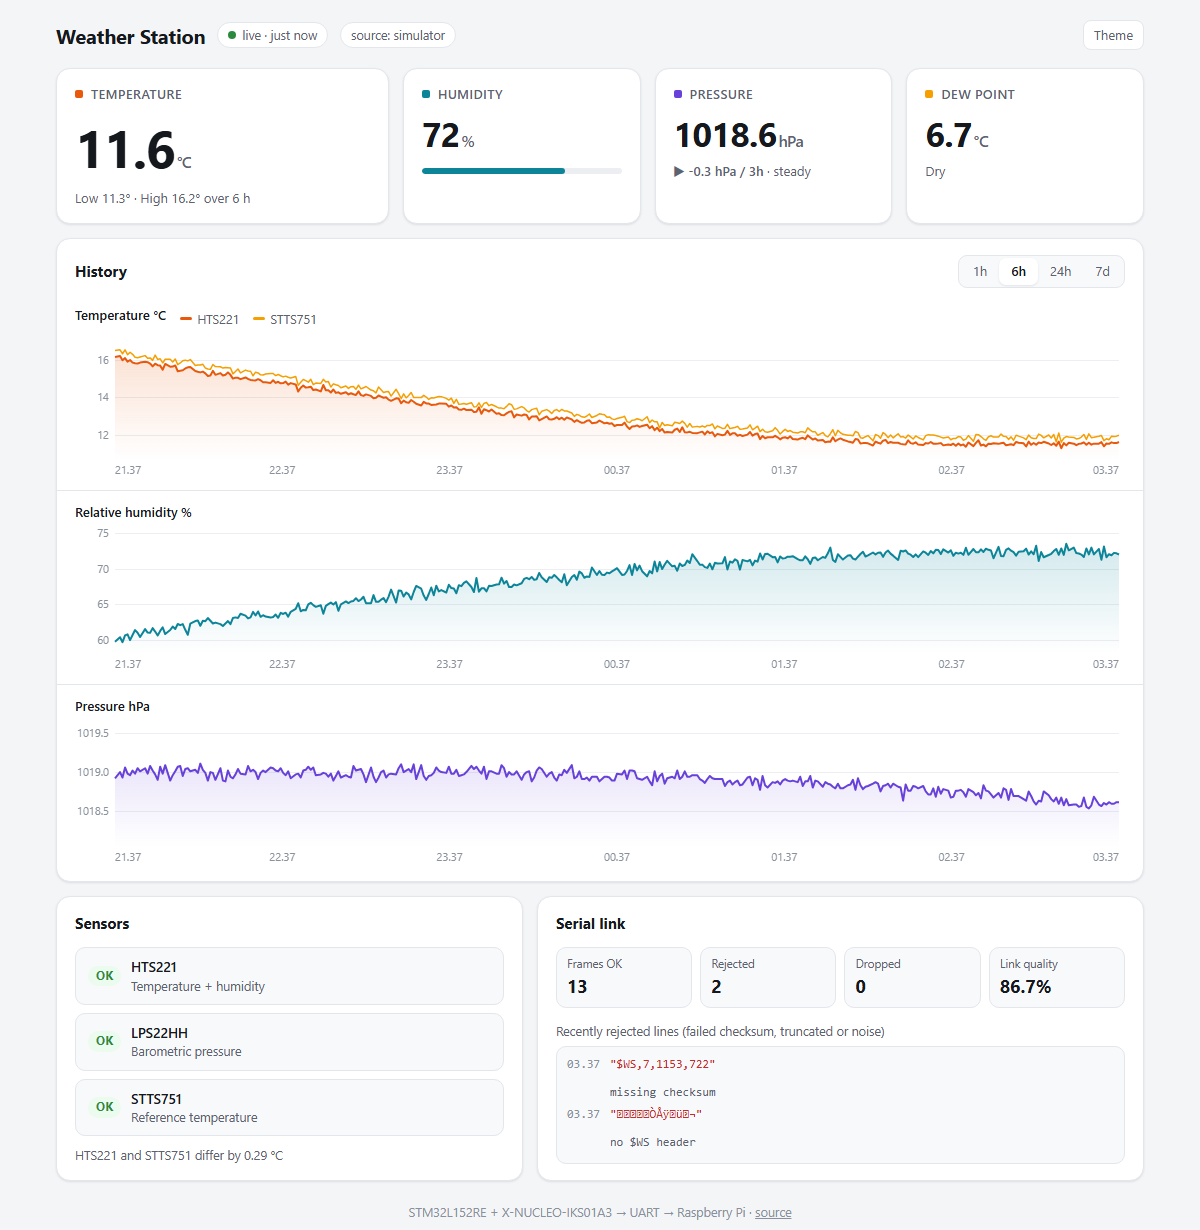
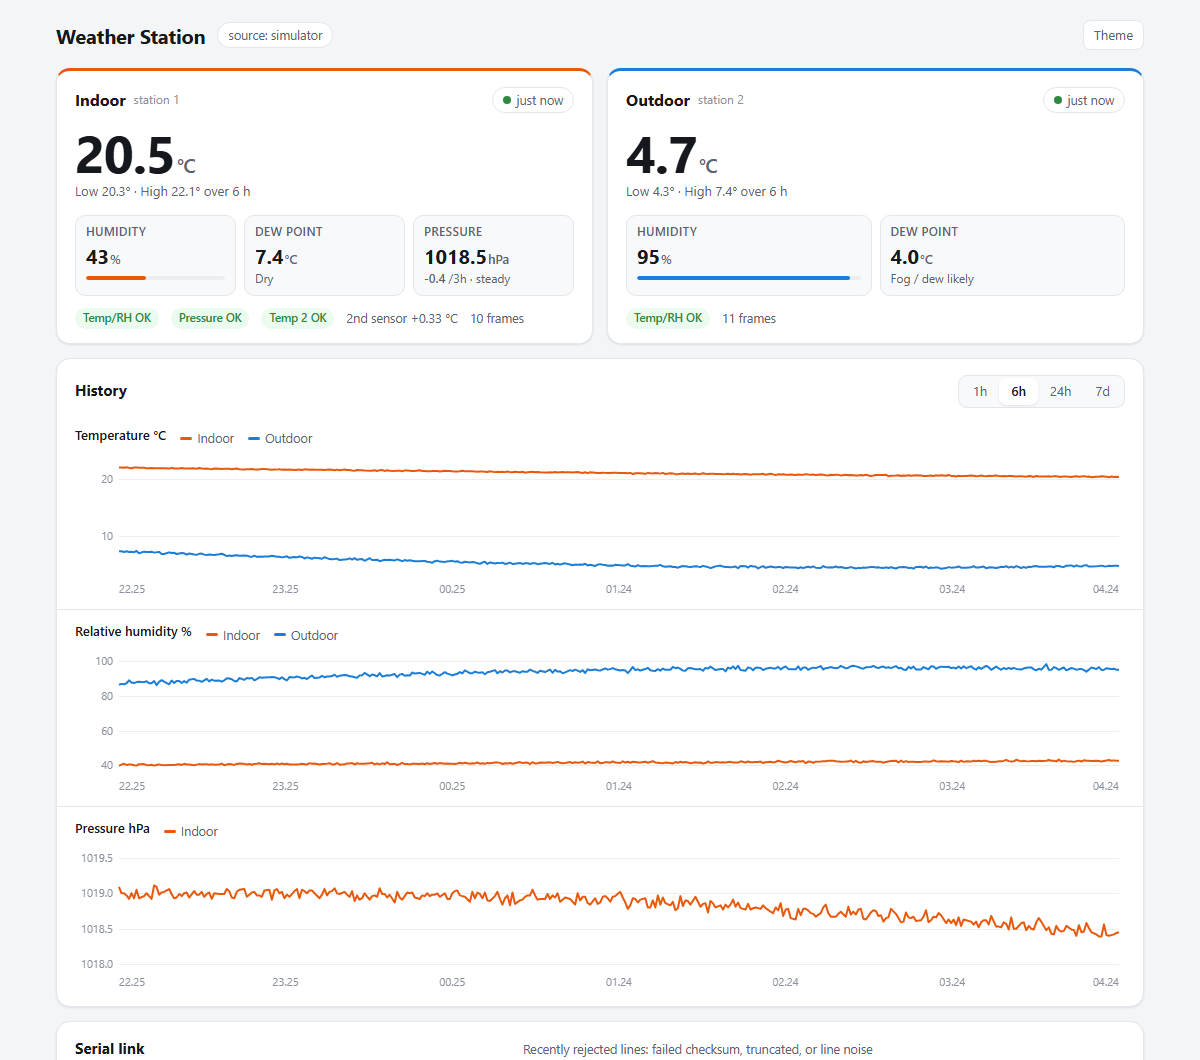
Rewrite README around the project's real history
Describe the 2021 prototype, three-board build and Pi setup, the bugs
behind the garbage data, and what the 2026 revisit changed.

diff --git a/README.md b/README.md
@@ -1,84 +1,72 @@
 # Weather Station
 
-An STM32 weather station that samples three environmental sensors under a real-time OS, streams checksummed frames over a serial link to a Raspberry Pi, and shows them on a live web dashboard.
+STM32 weather stations that sample temperature, humidity and pressure under a real-time OS. Each station streams checksummed frames over serial to a Raspberry Pi, which stores the readings and serves a live dashboard for every station.
 
 ![Dashboard](docs/dashboard.png)
 
+The project started in 2021 as an embedded systems course project and was revisited in 2026. [Project history](#project-history) explains which parts are original and which were rebuilt.
+
+## How it fits together
+
 ```mermaid
 flowchart LR
-    subgraph Station["Station: Nucleo-L152RE + X-NUCLEO-IKS01A3"]
-        S1[HTS221<br/>temp + humidity]
-        S2[LPS22HH<br/>pressure]
-        S3[STTS751<br/>temp]
-        T1([SensorRead task])
-        T2([UartSend task])
-        S1 & S2 & S3 -- I2C --> T1
-        T1 -- uC/OS-III task queue --> T2
+    subgraph S1["Station 1: Nucleo-L152RE + X-NUCLEO-IKS01A3"]
+        A1[HTS221 temp + RH<br/>LPS22HH pressure<br/>STTS751 temp] -- I2C --> T1([SensorRead task])
+        T1 -- uC/OS-III queue --> U1([UartSend task])
     end
-    subgraph Pi["Receiver: Raspberry Pi"]
-        R[receiver.py<br/>parse + verify]
-        DB[(SQLite)]
-        W[Flask API]
-        R --> DB --> W
+    S2["Station 2<br/>temp + RH only"]
+    subgraph Pi["Raspberry Pi"]
+        R[receiver.py<br/>verify + parse] --> DB[(SQLite)] --> W[Flask API]
     end
-    T2 -- "USART2 115200 8N1<br/>ST-LINK USB VCP" --> R
-    W -- HTTP --> B[Dashboard<br/>browser]
+    U1 -- "$WS,1,… frames" --> R
+    S2 -- "$WS,2,… frames" --> R
+    W -- HTTP --> B[Dashboard]
 ```
-
-## Parts
 
 | Folder | What it is |
 |---|---|
-| [`station/`](station/) | Firmware for the STM32L152RE, built with PlatformIO, STM32Cube HAL and Micrium uC/OS-III |
-| [`receiver/`](receiver/) | Python service for the Pi: reads serial, rejects corrupt frames, stores to SQLite, serves the dashboard |
-| [`receiver/static/`](receiver/static/) | Single-file dashboard, no external dependencies, so it works on an offline Pi |
+| [`station/`](station/) | Station firmware for the STM32L152RE, built with PlatformIO, STM32Cube HAL and Micrium uC/OS-III |
+| [`receiver/`](receiver/) | Python service for the Pi: reads serial, rejects corrupt frames, stores per-station history in SQLite, serves the dashboard |
+| [`receiver/static/`](receiver/static/) | Single-file dashboard with no external dependencies, so it works on an offline Pi |
+| [`docs/hardware/`](docs/hardware/) | Wiring diagrams of the 2021 build |
+| [`legacy/2021-pi/`](legacy/2021-pi/) | The original 2021 Pi script and PHP page, kept for history |
 
 ### Station firmware
 
 Three uC/OS-III tasks:
 
 - **AppTaskStart** (prio 1) brings up the clocks, GPIO and UART once, starts the other tasks, and blinks the heartbeat LED: slow when healthy, fast if a sensor has faulted.
-- **SensorRead** (prio 3) reads all three sensors every 2 s on a drift-free periodic delay and posts each sample to UartSend's task queue.
+- **SensorRead** (prio 3) reads the sensors every 2 s on a drift-free periodic delay and posts each sample to UartSend's task queue.
 - **UartSend** (prio 2) blocks on that queue, then formats and transmits a frame.
+
+Every board runs the same firmware. The station number is set at build time with `-DSTATION_ID=n`.
 
 ### Wire protocol
 
 One ASCII line per sample:
 
 ```
-$WS,<seq>,<temp_cC>,<hum_c%>,<press_Pa>,<temp2_cC>,<status>*<XOR>\r\n
-$WS,1042,2351,4512,101325,2387,0*3E
+$WS,<station>,<seq>,<temp_cC>,<hum_c%>,<press_Pa>,<temp2_cC>,<status>*<XOR>\r\n
+
+$WS,1,1042,2351,4512,101325,2387,0*23    station 1, all four sensors fitted
+$WS,2,17,1234,6550,,,0*2E                station 2, temperature + humidity only
 ```
 
-- Values are fixed-point integers: 2351 means 23.51 °C and 101325 Pa means 1013.25 hPa. The firmware never needs `printf("%f")`, which newlib-nano leaves out by default.
-- `seq` lets the receiver tell lost frames apart from station restarts.
-- `status` has one fault bit per sensor, so a dead sensor is reported instead of sending stale numbers.
-- The XOR checksum is the same scheme NMEA GPS uses. Any single-bit error, any truncated line and any line noise gets rejected and logged instead of stored.
-- Lines starting with `#` are informational.
+- **Values are fixed-point integers:** 2351 means 23.51 °C and 101325 Pa means 1013.25 hPa. The firmware never needs `printf("%f")`, which newlib-nano leaves out by default.
+- **Empty fields** mean the station has no such sensor fitted.
+- **`seq`** counts samples per station, so the receiver can tell lost frames apart from station restarts.
+- **`status`** has a fault bit per sensor slot, so a dead sensor is reported instead of sending stale numbers.
+- **The XOR checksum** is the same scheme NMEA GPS uses. Any single-bit error, any truncated line and any line noise is rejected and logged, never stored.
 
 ### Receiver and dashboard
 
 `receiver.py` does four things:
 - reconnects to the serial port if it drops
-- validates every line, and range-checks values against the sensor datasheets
-- keeps 30 days of history in SQLite
+- validates every frame, and range-checks values against the sensor datasheets
+- keeps 30 days of history per station
 - serves a JSON API plus the dashboard
 
-The dashboard shows:
-- current readings, dew point, and the 3-hour pressure trend (barometric tendency)
-- both temperature sensors side by side, as a sanity check on each other
-- link health: frames OK, rejected and dropped, plus the raw text of recently rejected lines
-
-## The garbage-on-the-display bug
-
-The 2021 version of this project showed nonsense readings, and the PC log was full of junk characters. Going back through the code turned up four separate bugs that combined to cause it:
-
-1. **A float read into an int.** `IKS01A3_ENV_SENSOR_GetValue()` writes a `float`, but the code passed `&data` where `data` was an `int`. The float's raw IEEE-754 bits were then printed with `%d`, so 23.5 °C came out as `1102839808`.
-2. **Sending the whole buffer.** `HAL_UART_Transmit(&huart2, MSG, sizeof(MSG), ...)` always sent all 20 bytes of the buffer, not the length of the string. Each line went out padded with NULs and leftovers from earlier messages, which is where the junk in the PC log came from.
-3. **A frozen HAL clock.** The vector table sends SysTick straight to the RTOS, so `HAL_IncTick()` never ran and `HAL_GetTick()` stayed at 0. `HAL_Delay()` could therefore never return, and HAL timeouts could never expire. The fix bases `HAL_GetTick()` / `HAL_Delay()` on the 1 kHz OS tick. `HAL_Delay()` now yields to the scheduler instead of busy-waiting.
-4. **Re-initialisation while running.** The UART task called `HAL_Init()`, `SystemClock_Config()` and `MX_USART2_UART_Init()` again after the scheduler had started, reprogramming SysTick and the UART under the other tasks. Separately, `MX_I2C1_Init()` was given an uninitialised pointer.
-
-The receiver tests replay the old firmware's exact output to show it is now rejected ([`test_original_firmware_output_rejected`](receiver/tests/test_protocol.py)).
+The dashboard shows a card per station with temperature, humidity, dew point and, where fitted, pressure with its 3-hour trend. Below that are history charts with one line per station, and the serial-link health: frames OK, rejected and lost, plus the raw text of recently rejected lines.
 
 ## Running it
 
@@ -86,22 +74,25 @@ The receiver tests replay the old firmware's exact output to show it is now reje
 
 ```sh
 cd receiver
-python -m venv .venv && . .venv/bin/activate      # Windows: .venv\Scripts\activate
+python -m venv .venv
+.venv\Scripts\activate          # Linux / Pi: source .venv/bin/activate
 pip install -r requirements.txt
 python receiver.py --simulate --backfill-hours 24 --corrupt-rate 0.03
 # open http://localhost:8080/
 ```
 
-The simulator speaks the same protocol as the firmware: a daily temperature cycle, humidity that tracks it inversely, and pressure that drifts over several days. `--corrupt-rate` garbles a share of the frames so you can watch them get rejected.
+The simulator speaks the firmware's protocol for two stations:
+- **Indoor:** the IKS01A3 board, with temperature, humidity, pressure and a second temperature.
+- **Outdoor:** temperature and humidity only, with a daily cycle.
+
+`--corrupt-rate` garbles a share of the frames so you can watch them get rejected.
 
 Opening `receiver/static/index.html` directly, or on GitHub Pages, with no API behind it switches the page to an in-browser demo mode.
 
 ### On the Raspberry Pi
 
-Plug the Nucleo into the Pi over USB, then:
-
 ```sh
-python receiver.py --serial /dev/ttyACM0
+python receiver.py --serial /dev/ttyACM0 --names "1=Indoor,2=Outdoor"
 ```
 
 To start it at boot, see [`weather-receiver.service`](receiver/weather-receiver.service).
@@ -121,15 +112,47 @@ pio device monitor -b 115200 # watch the raw frames
 cd receiver && python -m unittest discover -s tests -v
 ```
 
+## Project history
+
+### 2021: the original build
+
+The project went through these stages in autumn 2021:
+
+1. **October: single-board prototype.** One NUCLEO-L152RE with the X-NUCLEO-IKS01A3 sensor shield, running uC/OS-III and printing temperature over UART. That firmware is what was in this repo, and it is the basis of today's [`station/`](station/).
+2. **November: three-board design.** The design grew to two sensor stations, each a Nucleo with its own temperature and humidity sensors on a breadboard. The meeting notes list a DS18B20 and a HIH-4000 to order. A central Nucleo drove a 16×2 character LCD with a contrast potentiometer. The first diagram linked a station to the central board through MAX485 RS-485 transceivers. Later revisions wire the boards directly.
+3. **December: Raspberry Pi.** The central board fed the Pi over USB. A Python 2 script saved readings to CSV and MySQL, and a PHP page showed the last ten as a table. Both are in [`legacy/2021-pi/`](legacy/2021-pi/).
+
+The firmware for the three-board build (station boards, central board and LCD driver) has not survived.
+
+| RS-485 link (first draft) | One station | Two stations | Final |
+|---|---|---|---|
+| ![](docs/hardware/1-rs485-link.png) | ![](docs/hardware/2-one-station.png) | ![](docs/hardware/3-two-stations.png) | ![](docs/hardware/4-final.png) |
+
+### The garbage-data bugs
+
+The 2021 system was known for nonsense on the display and junk in the Pi's log. The surviving code shows why.
+
+**In the prototype firmware**, four bugs combined:
+
+1. **A float read into an int.** `IKS01A3_ENV_SENSOR_GetValue()` writes a `float`, but the code passed `&data` where `data` was an `int`. The float's raw IEEE-754 bits were then printed with `%d`, so 23.5 °C came out as `1102839808`.
+2. **Sending the whole buffer.** `HAL_UART_Transmit(&huart2, MSG, sizeof(MSG), ...)` always sent all 20 bytes of the buffer, not the length of the string. Each line went out padded with NULs and leftovers from earlier messages.
+3. **A frozen HAL clock.** The vector table sends SysTick straight to the RTOS, so `HAL_IncTick()` never ran and `HAL_GetTick()` stayed at 0. `HAL_Delay()` could therefore never return, and HAL timeouts could never expire. The fix bases both on the 1 kHz OS tick. `HAL_Delay()` now yields to the scheduler instead of busy-waiting.
+4. **Re-initialisation while running.** The UART task re-ran `HAL_Init()`, `SystemClock_Config()` and `MX_USART2_UART_Init()` after the scheduler had started, reprogramming SysTick and the UART under the other tasks. Separately, `MX_I2C1_Init()` was given an uninitialised pointer.
+
+**In the Pi script**, values were read from fixed character positions (`data[4:6]`, `data[11:13]`, …), with nothing checking whether a line was intact. Any shifted or damaged line turned into junk values or a crash. [`legacy/2021-pi/README.md`](legacy/2021-pi/README.md) has the details.
+
+The receiver tests replay both old formats to show they are now rejected. See [`test_original_firmware_output_rejected`](receiver/tests/test_protocol.py) and `test_legacy_2021_pi_format_rejected`.
+
+### 2026: the revisit
+
+- The prototype firmware bugs above are fixed.
+- The firmware reads all three IKS01A3 sensors and sends station-tagged, checksummed frames.
+- The receiver and dashboard were rewritten for any number of stations.
+
+The firmware builds cleanly with `-Wall -Wextra` (25 KB flash, 8.7 KB RAM) but hasn't been re-run on hardware since 2021. The receiver, protocol and dashboard are covered by unit tests and run against the simulator.
+
 ## Hardware
 
 - [NUCLEO-L152RE](https://www.st.com/en/evaluation-tools/nucleo-l152re.html): STM32L152RE, Cortex-M3 at 32 MHz
 - [X-NUCLEO-IKS01A3](https://www.st.com/en/ecosystems/x-nucleo-iks01a3.html) sensor shield on I2C1 (PB8/PB9)
-- A Raspberry Pi (any model that runs Python 3.9+)
-
-## Project history
-
-- **2021:** built as an embedded systems project, centred on the STM32 station.
-- **2026:** revisited. The firmware bugs above are fixed. The receiver and dashboard were rewritten because the originals were lost.
-
-The current firmware builds cleanly with `-Wall -Wextra` (25 KB flash, 8.7 KB RAM) but hasn't been re-run on hardware since 2021. The receiver, protocol and dashboard are tested against the simulator.
+- A Raspberry Pi with Python 3.9+
